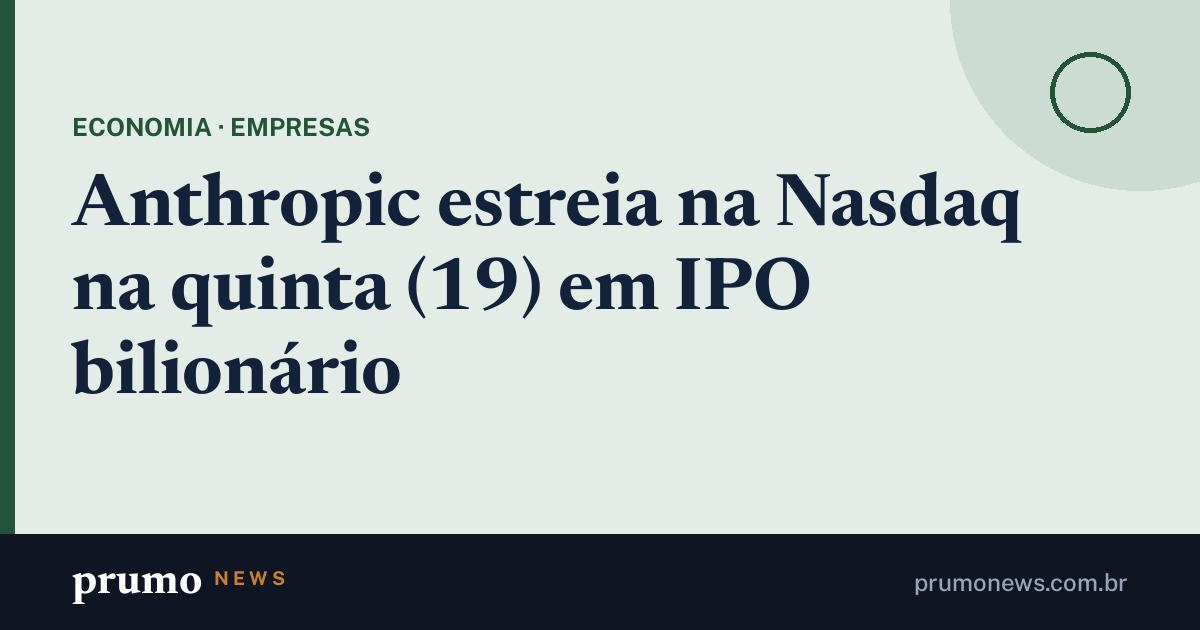
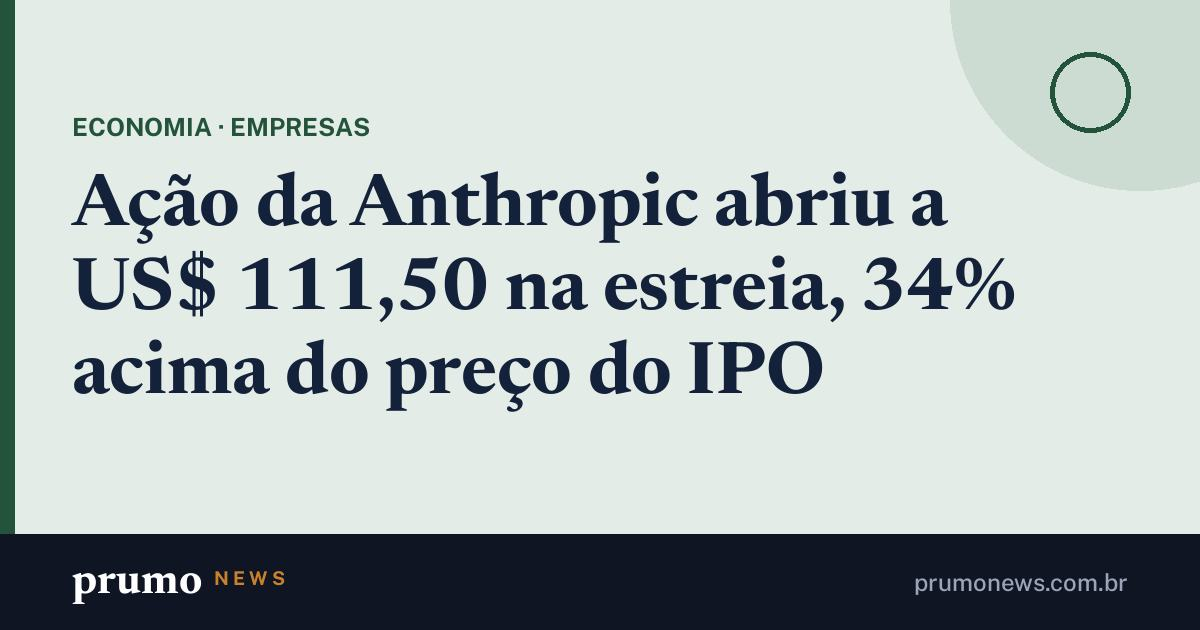
Páginas com as fotos novas

Changed region(s): [[0.0617, 0.2714, 0.8633, 0.6635]]

diff --git a/m/dolar-fecha-a-na-maior-valor-desde-abril-de-2025.html b/m/dolar-fecha-a-na-maior-valor-desde-abril-de-2025.html
@@ -3,13 +3,13 @@
 <head>
 <meta charset="utf-8">
 <meta name="viewport" content="width=device-width, initial-scale=1">
-<title>Dólar fecha a R$ 5,95 na sexta (20), maior valor desde abril de 2025 · Prumo News</title>
+<title>Dólar fecha a R$ 5,93 na quinta (19), maior valor desde abril de 2025 · Prumo News</title>
 <meta name="description" content="O Ibovespa fecha a 166.376 pontos (-0,69%); a B3 não opera na sexta (20) e reabre na segunda (23), dia da sessão sobre o ajuste fiscal.">
 <link rel="canonical" href="https://prumonews.com.br/m/dolar-fecha-a-na-maior-valor-desde-abril-de-2025.html">
 <meta property="og:type" content="article">
 <meta property="og:site_name" content="Prumo News">
 <meta property="og:locale" content="pt_BR">
-<meta property="og:title" content="Dólar fecha a R$ 5,95 na sexta (20), maior valor desde abril de 2025">
+<meta property="og:title" content="Dólar fecha a R$ 5,93 na quinta (19), maior valor desde abril de 2025">
 <meta property="og:description" content="O Ibovespa fecha a 166.376 pontos (-0,69%); a B3 não opera na sexta (20) e reabre na segunda (23), dia da sessão sobre o ajuste fiscal.">
 <meta property="og:url" content="https://prumonews.com.br/m/dolar-fecha-a-na-maior-valor-desde-abril-de-2025.html">
 <meta property="og:image" content="https://upload.wikimedia.org/wikipedia/commons/thumb/e/e7/Bovespa%2C_S%C3%A3o_Paulo_city_downtown.jpg/960px-Bovespa%2C_S%C3%A3o_Paulo_city_downtown.jpg">
@@ -18,5 +18,5 @@
 <script>location.replace("/#m=dolar-volta-acima-5")</script>
 <style>body{margin:0;font:16px/1.5 system-ui,sans-serif;background:#0f1522;color:#e8ecf2;display:grid;place-items:center;min-height:100vh;padding:24px;box-sizing:border-box;text-align:center}a{color:#e6b673}</style>
 </head>
-<body><p><a href="/#m=dolar-volta-acima-5">Dólar fecha a R$ 5,95 na sexta (20), maior valor desde abril de 2025</a><br>Abrindo no Prumo News…</p></body>
+<body><p><a href="/#m=dolar-volta-acima-5">Dólar fecha a R$ 5,93 na quinta (19), maior valor desde abril de 2025</a><br>Abrindo no Prumo News…</p></body>
 </html>

diff --git a/m/dolar-volta-acima-5.html b/m/dolar-volta-acima-5.html
@@ -3,13 +3,13 @@
 <head>
 <meta charset="utf-8">
 <meta name="viewport" content="width=device-width, initial-scale=1">
-<title>Dólar fecha a R$ 5,95 na sexta (20), maior valor desde abril de 2025 · Prumo News</title>
+<title>Dólar fecha a R$ 5,93 na quinta (19), maior valor desde abril de 2025 · Prumo News</title>
 <meta name="description" content="O Ibovespa fecha a 166.376 pontos (-0,69%); a B3 não opera na sexta (20) e reabre na segunda (23), dia da sessão sobre o ajuste fiscal.">
 <link rel="canonical" href="https://prumonews.com.br/m/dolar-fecha-a-na-maior-valor-desde-abril-de-2025.html">
 <meta property="og:type" content="article">
 <meta property="og:site_name" content="Prumo News">
 <meta property="og:locale" content="pt_BR">
-<meta property="og:title" content="Dólar fecha a R$ 5,95 na sexta (20), maior valor desde abril de 2025">
+<meta property="og:title" content="Dólar fecha a R$ 5,93 na quinta (19), maior valor desde abril de 2025">
 <meta property="og:description" content="O Ibovespa fecha a 166.376 pontos (-0,69%); a B3 não opera na sexta (20) e reabre na segunda (23), dia da sessão sobre o ajuste fiscal.">
 <meta property="og:url" content="https://prumonews.com.br/m/dolar-fecha-a-na-maior-valor-desde-abril-de-2025.html">
 <meta property="og:image" content="https://upload.wikimedia.org/wikipedia/commons/thumb/e/e7/Bovespa%2C_S%C3%A3o_Paulo_city_downtown.jpg/960px-Bovespa%2C_S%C3%A3o_Paulo_city_downtown.jpg">
@@ -18,5 +18,5 @@
 <script>location.replace("/#m=dolar-volta-acima-5")</script>
 <style>body{margin:0;font:16px/1.5 system-ui,sans-serif;background:#0f1522;color:#e8ecf2;display:grid;place-items:center;min-height:100vh;padding:24px;box-sizing:border-box;text-align:center}a{color:#e6b673}</style>
 </head>
-<body><p><a href="/#m=dolar-volta-acima-5">Dólar fecha a R$ 5,95 na sexta (20), maior valor desde abril de 2025</a><br>Abrindo no Prumo News…</p></body>
+<body><p><a href="/#m=dolar-volta-acima-5">Dólar fecha a R$ 5,93 na quinta (19), maior valor desde abril de 2025</a><br>Abrindo no Prumo News…</p></body>
 </html>

diff --git a/m/ifood-revelou-vazamento-de-telefones-de-clientes-e-dados-de.html b/m/ifood-revelou-vazamento-de-telefones-de-clientes-e-dados-de.html
@@ -12,7 +12,9 @@
 <meta property="og:title" content="iFood revelou vazamento de telefones de clientes e dados de entregadores">
 <meta property="og:description" content="Senhas, cartões e saldos não foram acessados, diz a empresa; entregadores afetados receberão e-mail e a ANPD foi notificada.">
 <meta property="og:url" content="https://prumonews.com.br/m/ifood-revelou-vazamento-de-telefones-de-clientes-e-dados-de.html">
-<meta property="og:image" content="https://upload.wikimedia.org/wikipedia/commons/thumb/e/e5/Reflection_of_Parque_Cultural_Paulista_building_in_Avenida_Paulista%2C_Brazil.jpg/960px-Reflection_of_Parque_Cultural_Paulista_building_in_Avenida_Paulista%2C_Brazil.jpg">
+<meta property="og:image" content="https://prumonews.com.br/m/og/ifood-vazamento-dados.jpg?v=f532ebdbb4">
+<meta property="og:image:width" content="1200">
+<meta property="og:image:height" content="630">
 <meta name="twitter:card" content="summary_large_image">
 <meta name="theme-color" content="#0f1522">
 <script>location.replace("/#m=ifood-vazamento-dados")</script>

diff --git a/m/ifood-vazamento-dados.html b/m/ifood-vazamento-dados.html
@@ -12,7 +12,9 @@
 <meta property="og:title" content="iFood revelou vazamento de telefones de clientes e dados de entregadores">
 <meta property="og:description" content="Senhas, cartões e saldos não foram acessados, diz a empresa; entregadores afetados receberão e-mail e a ANPD foi notificada.">
 <meta property="og:url" content="https://prumonews.com.br/m/ifood-revelou-vazamento-de-telefones-de-clientes-e-dados-de.html">
-<meta property="og:image" content="https://upload.wikimedia.org/wikipedia/commons/thumb/e/e5/Reflection_of_Parque_Cultural_Paulista_building_in_Avenida_Paulista%2C_Brazil.jpg/960px-Reflection_of_Parque_Cultural_Paulista_building_in_Avenida_Paulista%2C_Brazil.jpg">
+<meta property="og:image" content="https://prumonews.com.br/m/og/ifood-vazamento-dados.jpg?v=f532ebdbb4">
+<meta property="og:image:width" content="1200">
+<meta property="og:image:height" content="630">
 <meta name="twitter:card" content="summary_large_image">
 <meta name="theme-color" content="#0f1522">
 <script>location.replace("/#m=ifood-vazamento-dados")</script>

diff --git a/m/playoffs-da-serie-b-comecam-domingo-22-e-dao-2-vagas-na-serie-a.html b/m/playoffs-da-serie-b-comecam-domingo-22-e-dao-2-vagas-na-serie-a.html
@@ -12,7 +12,9 @@
 <meta property="og:title" content="Playoffs da Série B começam domingo (22) e dão 2 vagas na Série A">
 <meta property="og:description" content="Criciúma x Fortaleza e Atlético-GO x Vila Nova jogam a ida no domingo (22); a volta é na sexta (27) e no sábado (28), e quem vencer sobe.">
 <meta property="og:url" content="https://prumonews.com.br/m/playoffs-da-serie-b-comecam-domingo-22-e-dao-2-vagas-na-serie-a.html">
-<meta property="og:image" content="https://upload.wikimedia.org/wikipedia/commons/thumb/6/67/Est%C3%A1dio_da_Fonte_Nova_em_Salvador-BA_-_panoramio.jpg/960px-Est%C3%A1dio_da_Fonte_Nova_em_Salvador-BA_-_panoramio.jpg">
+<meta property="og:image" content="https://prumonews.com.br/m/og/serie-b-38-rodada-final.jpg?v=482fd3f0d8">
+<meta property="og:image:width" content="1200">
+<meta property="og:image:height" content="630">
 <meta name="twitter:card" content="summary_large_image">
 <meta name="theme-color" content="#0f1522">
 <script>location.replace("/#m=serie-b-38-rodada-final")</script>

diff --git a/m/serie-b-38-rodada-final.html b/m/serie-b-38-rodada-final.html
@@ -12,7 +12,9 @@
 <meta property="og:title" content="Playoffs da Série B começam domingo (22) e dão 2 vagas na Série A">
 <meta property="og:description" content="Criciúma x Fortaleza e Atlético-GO x Vila Nova jogam a ida no domingo (22); a volta é na sexta (27) e no sábado (28), e quem vencer sobe.">
 <meta property="og:url" content="https://prumonews.com.br/m/playoffs-da-serie-b-comecam-domingo-22-e-dao-2-vagas-na-serie-a.html">
-<meta property="og:image" content="https://upload.wikimedia.org/wikipedia/commons/thumb/6/67/Est%C3%A1dio_da_Fonte_Nova_em_Salvador-BA_-_panoramio.jpg/960px-Est%C3%A1dio_da_Fonte_Nova_em_Salvador-BA_-_panoramio.jpg">
+<meta property="og:image" content="https://prumonews.com.br/m/og/serie-b-38-rodada-final.jpg?v=482fd3f0d8">
+<meta property="og:image:width" content="1200">
+<meta property="og:image:height" content="630">
 <meta name="twitter:card" content="summary_large_image">
 <meta name="theme-color" content="#0f1522">
 <script>location.replace("/#m=serie-b-38-rodada-final")</script>

diff --git a/m/acao-da-anthropic-abriu-a-us-111-50-na-estreia-34-acima-do-preco-do.html b/m/acao-da-anthropic-abriu-a-us-111-50-na-estreia-34-acima-do-preco-do.html
@@ -12,7 +12,9 @@
 <meta property="og:title" content="Ação da Anthropic abriu a US$ 111,50 na estreia, 34% acima do preço do IPO">
 <meta property="og:description" content="O IPO de US$ 81,3 bi saiu a US$ 83 por ação, acima da faixa prevista, e a empresa chegou a valer cerca de US$ 2 tri na abertura.">
 <meta property="og:url" content="https://prumonews.com.br/m/acao-da-anthropic-abriu-a-us-111-50-na-estreia-34-acima-do-preco-do.html">
-<meta property="og:image" content="https://upload.wikimedia.org/wikipedia/commons/thumb/3/30/Building_in_Paulista_Avenue_09.jpg/960px-Building_in_Paulista_Avenue_09.jpg">
+<meta property="og:image" content="https://prumonews.com.br/m/og/anthropic-ipo-nasdaq.jpg?v=3edd785bf6">
+<meta property="og:image:width" content="1200">
+<meta property="og:image:height" content="630">
 <meta name="twitter:card" content="summary_large_image">
 <meta name="theme-color" content="#0f1522">
 <script>location.replace("/#m=anthropic-ipo-nasdaq")</script>

diff --git a/m/anthropic-ipo-nasdaq.html b/m/anthropic-ipo-nasdaq.html
@@ -12,7 +12,9 @@
 <meta property="og:title" content="Ação da Anthropic abriu a US$ 111,50 na estreia, 34% acima do preço do IPO">
 <meta property="og:description" content="O IPO de US$ 81,3 bi saiu a US$ 83 por ação, acima da faixa prevista, e a empresa chegou a valer cerca de US$ 2 tri na abertura.">
 <meta property="og:url" content="https://prumonews.com.br/m/acao-da-anthropic-abriu-a-us-111-50-na-estreia-34-acima-do-preco-do.html">
-<meta property="og:image" content="https://upload.wikimedia.org/wikipedia/commons/thumb/3/30/Building_in_Paulista_Avenue_09.jpg/960px-Building_in_Paulista_Avenue_09.jpg">
+<meta property="og:image" content="https://prumonews.com.br/m/og/anthropic-ipo-nasdaq.jpg?v=3edd785bf6">
+<meta property="og:image:width" content="1200">
+<meta property="og:image:height" content="630">
 <meta name="twitter:card" content="summary_large_image">
 <meta name="theme-color" content="#0f1522">
 <script>location.replace("/#m=anthropic-ipo-nasdaq")</script>

diff --git a/m/brasileirao-31-rodada-lideres.html b/m/brasileirao-31-rodada-lideres.html
@@ -12,7 +12,7 @@
 <meta property="og:title" content="Flamengo (79) visita o Palmeiras (73) no sábado (21)">
 <meta property="og:description" content="Fluminense garante a Libertadores e o Internacional cai para o Z-4; Palmeiras x Flamengo é no sábado (21), às 16h30.">
 <meta property="og:url" content="https://prumonews.com.br/m/flamengo-79-visita-o-palmeiras-73-no-sabado-21.html">
-<meta property="og:image" content="https://upload.wikimedia.org/wikipedia/commons/thumb/a/a8/Est%C3%A1dio_do_Maracan%C3%A3_-_panorama.jpg/960px-Est%C3%A1dio_do_Maracan%C3%A3_-_panorama.jpg">
+<meta property="og:image" content="https://upload.wikimedia.org/wikipedia/commons/thumb/4/42/Est%C3%A1dio_do_Maracan%C3%A3_no_in%C3%ADcio_de_2020.jpg/960px-Est%C3%A1dio_do_Maracan%C3%A3_no_in%C3%ADcio_de_2020.jpg">
 <meta name="twitter:card" content="summary_large_image">
 <meta name="theme-color" content="#0f1522">
 <script>location.replace("/#m=brasileirao-31-rodada-lideres")</script>

diff --git a/m/flamengo-79-visita-o-palmeiras-73-no-sabado-21.html b/m/flamengo-79-visita-o-palmeiras-73-no-sabado-21.html
@@ -12,7 +12,7 @@
 <meta property="og:title" content="Flamengo (79) visita o Palmeiras (73) no sábado (21)">
 <meta property="og:description" content="Fluminense garante a Libertadores e o Internacional cai para o Z-4; Palmeiras x Flamengo é no sábado (21), às 16h30.">
 <meta property="og:url" content="https://prumonews.com.br/m/flamengo-79-visita-o-palmeiras-73-no-sabado-21.html">
-<meta property="og:image" content="https://upload.wikimedia.org/wikipedia/commons/thumb/a/a8/Est%C3%A1dio_do_Maracan%C3%A3_-_panorama.jpg/960px-Est%C3%A1dio_do_Maracan%C3%A3_-_panorama.jpg">
+<meta property="og:image" content="https://upload.wikimedia.org/wikipedia/commons/thumb/4/42/Est%C3%A1dio_do_Maracan%C3%A3_no_in%C3%ADcio_de_2020.jpg/960px-Est%C3%A1dio_do_Maracan%C3%A3_no_in%C3%ADcio_de_2020.jpg">
 <meta name="twitter:card" content="summary_large_image">
 <meta name="theme-color" content="#0f1522">
 <script>location.replace("/#m=brasileirao-31-rodada-lideres")</script>

diff --git a/m/eua-chips-ia-brasil-licenca.html b/m/eua-chips-ia-brasil-licenca.html
@@ -12,7 +12,7 @@
 <meta property="og:title" content="Licença dos EUA para chips de IA no Brasil vale desde a quinta (19)">
 <meta property="og:description" content="O Brasil é o único país da América Latina entre os cinco na lista de risco de desvio de chips para a China; a regra vale desde a quinta (19).">
 <meta property="og:url" content="https://prumonews.com.br/m/licenca-dos-eua-para-chips-de-ia-no-brasil-vale-desde-a-quinta-19.html">
-<meta property="og:image" content="https://upload.wikimedia.org/wikipedia/commons/thumb/5/5a/US_Capitol_dome_Jan_2006.jpg/960px-US_Capitol_dome_Jan_2006.jpg">
+<meta property="og:image" content="https://upload.wikimedia.org/wikipedia/commons/thumb/e/e2/The_White_House_June_2024.jpg/960px-The_White_House_June_2024.jpg">
 <meta name="twitter:card" content="summary_large_image">
 <meta name="theme-color" content="#0f1522">
 <script>location.replace("/#m=eua-chips-ia-brasil-licenca")</script>

diff --git a/m/licenca-dos-eua-para-chips-de-ia-no-brasil-vale-desde-a-quinta-19.html b/m/licenca-dos-eua-para-chips-de-ia-no-brasil-vale-desde-a-quinta-19.html
@@ -12,7 +12,7 @@
 <meta property="og:title" content="Licença dos EUA para chips de IA no Brasil vale desde a quinta (19)">
 <meta property="og:description" content="O Brasil é o único país da América Latina entre os cinco na lista de risco de desvio de chips para a China; a regra vale desde a quinta (19).">
 <meta property="og:url" content="https://prumonews.com.br/m/licenca-dos-eua-para-chips-de-ia-no-brasil-vale-desde-a-quinta-19.html">
-<meta property="og:image" content="https://upload.wikimedia.org/wikipedia/commons/thumb/5/5a/US_Capitol_dome_Jan_2006.jpg/960px-US_Capitol_dome_Jan_2006.jpg">
+<meta property="og:image" content="https://upload.wikimedia.org/wikipedia/commons/thumb/e/e2/The_White_House_June_2024.jpg/960px-The_White_House_June_2024.jpg">
 <meta name="twitter:card" content="summary_large_image">
 <meta name="theme-color" content="#0f1522">
 <script>location.replace("/#m=eua-chips-ia-brasil-licenca")</script>
